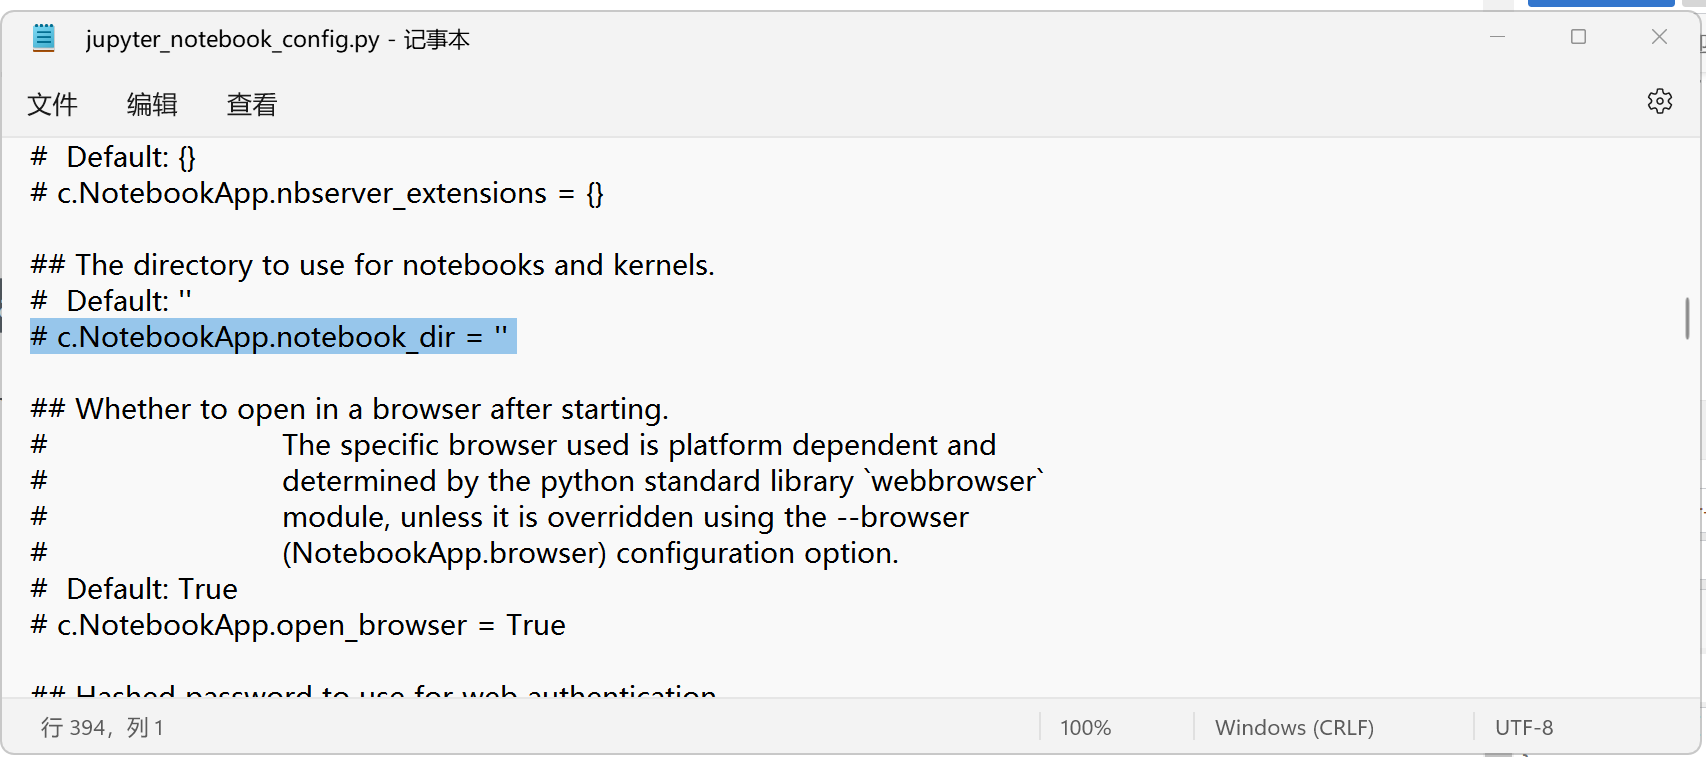
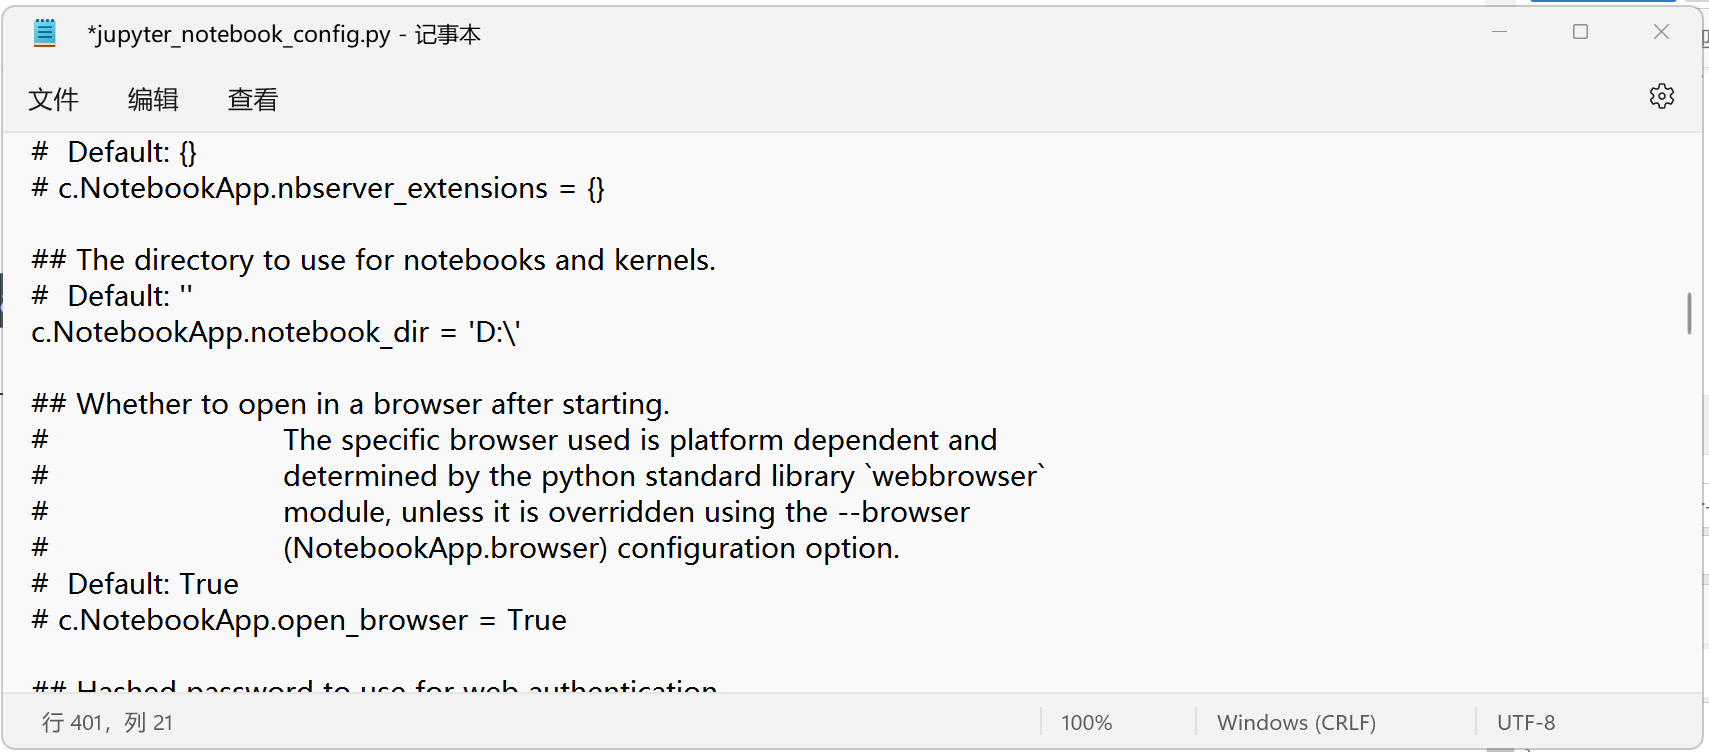
1

diff --git a/Lab0/readme.md b/Lab0/readme.md
@@ -330,10 +330,7 @@ custom_channels:
 
 <p>2.  按照上图中路径寻找文件名是<code>“jupyter_notebook_config.py”</code>的文件。使用记事本或者默认程序打开。</p> 
 
-<p>3. 搜索
-“# The directory to use for notebooks and kernels.”下面的</p> 
-<p>“# c.NotebookApp.notebook_dir = ‘’”为</p> 
-<p>“c.NotebookApp.notebook_dir = ‘指定的工作路径’”（注意将#号删除）</p> 
+<p>3. 搜索“# The directory to use for notebooks and kernels.”，找到下方“# c.NotebookApp.notebook_dir = ‘’” 并修改为“c.NotebookApp.notebook_dir = ‘指定的工作路径’”（注意将#号删除）</p> 
 <p><img src="https://s2.51cto.com/images/blog/202106/18/62ca3a7471d583f9846028ff3621a57f.png?x-oss-process=image/watermark,size_16,text_QDUxQ1RP5Y2a5a6i,color_FFFFFF,t_30,g_se,x_10,y_10,shadow_20,type_ZmFuZ3poZW5naGVpdGk=/format,webp/resize,m_fixed,w_1184" alt="如何修改jupyter notebook的 默认目录和默认浏览器？_Python_03"></p> 
 <p>然后重启一下<code>jupyter nootbook</code>，默认路径确实更改了！</p> 
 <h3 id="h1">
